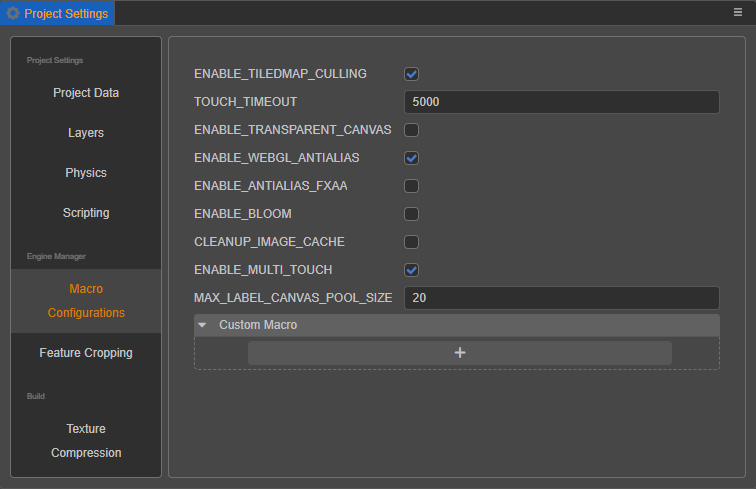
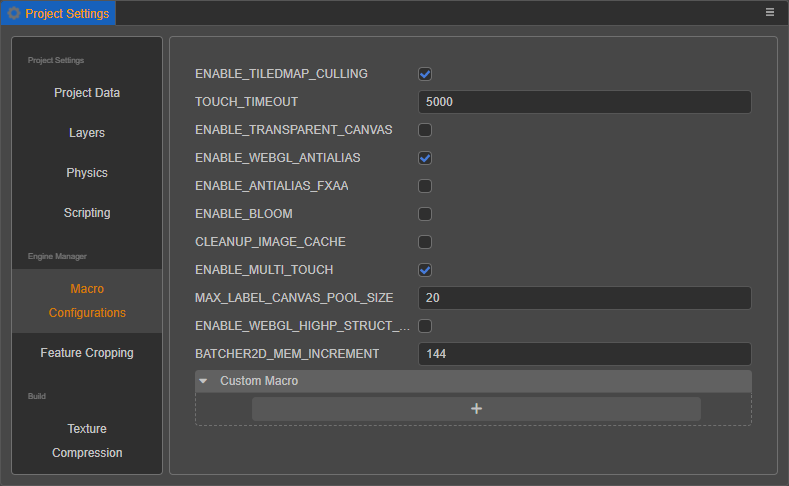
完善 2D 渲染组件合批

diff --git a/zh/ui-system/components/engine/ui-batch.md b/zh/ui-system/components/engine/ui-batch.md
@@ -2,41 +2,77 @@
 
 ## 合批条件说明
 
-2D 渲染组件合批的规则是节点的 layer、使用的材质、渲染组件的 blendState 和 DepthStencilState 相同、渲染组件的顶点信息要在同一个 buffer 中上传、贴图源以及贴图采样都相同才会进行合批。
-下面我们就分别说明一下这些条件：
-- 节点的 layer：由于 layer 会涉及到渲染与否，所以不同的 layer 之间不能进行合批
-- 材质：材质相同是合批的必然要求，由于我们使用的材质实例化的机制，所以用户在设置了材质的 uniform 之后材质会进行实例化，实例化之后的材质是无法进行合批的，如果自定义材质进行了 uniform 设置之后导致此组件无法合批，之后 uniform 值使用完毕想要该组件参与合批，可将材质资源重新赋值给组件即可重新使组件参与合批（通过 CustomMaterial 接口赋值即可）
-- BlendState 状态：对于部分 2D 渲染组件可以在面板上设置部分的 BlendState 值，这个值不同的话是无法进行合批的
-- DepthStencilState 状态：这个值控制着组件的深度检测和模板缓冲，一般来说用户不需关心这个值的设置，这个值由引擎自动控制（用于 Mask 的效果实现）
-- 顶点信息在同一个 buffer 中上传，一般情况下用户无需关心此点，顶点信息由引擎统一进行分配和管理，请参考后文的 MeshBuffer 合批说明来了解更多信息
-- 贴图源和贴图采样：一般来说，这个条件是影响合批的最主要的条件，尤其对于精灵和文本来说，贴图很容易产生差别导致无法合批。引擎提供了部分方法来实现更好的合批，可参考后文。
+2D 渲染组件合批需要满足以下几点条件：
+
+| 条件 | 说明 |
+| :-- | :--- |
+| 节点的 Layer 相同 | 由于 Layer 与节点是否渲染相关，因此不同的 Layer 之间不能进行合批。 |
+| 使用的材质相同 | **材质相同是合批的必要要求**。<br>由于 Creator 使用的是 **材质实例化** 的机制，所以当用户在设置了材质的 `uniform` 之后，材质会进行实例化，实例化之后的材质是无法进行合批的。<br>如果用户在自定义材质中设置了 `uniform`（对应组件无法进行合批），在 `uniform` 值使用完毕后想要该组件参与合批，那么可通过 `CustomMaterial` 接口将材质资源重新赋值给组件即可。 |
+| 渲染组件上所添加的材质的 `BlendState` 和 `DepthStencilState` 属性设置相同 | `DepthStencilState` 属性用于控制组件的深度检测和模板缓冲，是由引擎自动控制（用于 Mask 的效果实现）的，一般来说用户不需关心该属性的设置。 |
+| 渲染组件的顶点信息要在同一个 **buffer** 中上传（v3.4.1 新增） | 一般情况下顶点信息是由引擎统一进行分配和管理的，用户无需关心。若想要了解更多相关信息，请参考下文 **MeshBuffer 合批说明** 部分的内容。 |
+| 贴图源以及贴图采样相同 | 一般情况下该条件是影响合批最主要的因素，尤其对于 Sprite 和 Label 来说，贴图很容易产生差别导致无法合批。Creator 提供了部分方法用于更好地实现合批，详情请参考下文 **合批方法说明** 部分的内容。 |
 
 ## 合批方法说明
 
-结合以上的合批条件说明，我们可以通过一些方法来实现更好的合批方法，需要额外说明的是，2D 渲染组件的渲染数据采集是一个基于节点树的渲染方式，而一些组件是会打断合批的，目前引擎的内置组件 Mask、Graphics 和 UIMeshRenderer 由于材质不同和数据组织方式的差异会无法与其他组件合批，而 TiledMap、Spine 和 DragonBones 这三个中间件组件遵循自己的内部合批机制，所以上述组件都无法合批，且会打断其他组件合批，需要用户进行分模块管理节点树布局，以达到更好的合批效果。
+结合以上的合批条件说明，我们可以通过一些方法来实现更好的合批方法。需要额外说明的是，2D 渲染组件的渲染数据采集使用的是基于 **节点树** 的渲染方式，而有部分组件无法合批，且会打断其他组件合批，需要用户进行分模块管理节点树布局，以达到更好的合批效果。无法合批的组件包括：
 
-- 对于 Sprite 组件，我们提供了 [静态合图](../../../asset/auto-atlas.md) 和 [动态合图](../../../advanced-topics/dynamic-atlas.md) 两种合批方案，通过将图片纹理合并，即可在其他条件满足的情况下合批
-- 对于 Label 组件，我们提供了 Bitmap 的缓存方法，通过将 Label 的纹理合图，即可实现 Sprite 和 Label 组件的合批，但请注意，使用 Bitmap 缓存方式的 Label 不可频繁变动文字内容
-- 一般来说，用户通过控制材质和节点树状态配合合图方法，能够达到较好的合批效果
+- 内置组件 Mask、Graphics 和 UIMeshRenderer 组件由于材质不同和数据组织方式的差异，无法与其他组件合批；
+- TiledMap、Spine 和 DragonBones 这三个中间件组件则是遵循自己的内部合批机制。
+
+对于 Sprite 和 Label 组件来说，因为贴图很容易产生差别，导致无法合批。因此我们提供了以下方法可以更好地实现合批，用户可以根据需要参考使用：
+
+- 对于 Sprite 组件，我们提供了 [静态合图](../../../asset/auto-atlas.md) 和 [动态合图](../../../advanced-topics/dynamic-atlas.md) 两种合批方案，通过将图片纹理合并，即可在其他条件满足的情况下进行合批。
+- 对于 Label 组件，我们提供了 Bitmap 的缓存方法，通过将 Label 的纹理合图，即可实现 Sprite 和 Label 组件的合批，但需要注意的是，使用 Bitmap 缓存方式的 Label 不可频繁变动文字内容。
+
+一般来说，通过控制材质和节点树状态，然后配合合图方法，便能够达到较好的合批效果。
 
 ## MeshBuffer 合批说明
 
-由于合批要求渲染对象的顶点在同一个 MeshBuffer 中，所以会有以下几种情况造成 MeshBuffer 切换：
+由于合批要求渲染对象的顶点在同一个 MeshBuffer 中，而以下几种情况则会造成 MeshBuffer 切换。
 
-在 3.4.1 以前的版本中：
+### v3.4.1 之前
 
-- 场景中要绘制的顶点数量超过了 MeshBuffer 所能容纳的最大顶点数量（65535个顶点）
+场景中要绘制的顶点数量超过了 MeshBuffer 所能容纳的最大顶点数量（65535 个）。
 
-在 3.4.1 之后的版本中，由于我们采用了新的渲染数据提交设计，所以需要注意以下几点：
+### v3.4.1 之后
 
-- 项目设置中的 BATCHER2D_MEM_INCREMENT 的值会影响每个 MeshBuffer 可容纳的最大顶点数量。所以，这个值越大，同一个 MeshBuffer 可容纳的 2D 渲染对象也就越多，但同时，内存增加的幅度也会越大，请用户结合自身项目规模酌情设置大小（KB）
-- 项目设置中的 BATCHER2D_MEM_INCREMENT 单位为 KB，其与可容纳的顶点数量的关系为：在引擎内置标准顶点格式 **[vfmtPosUvColor]** ，即每个顶点占用 9 个 float 值的条件下，每个顶点占用的空间为 1 * 9 * 4 / 1024 （KB），其中 1 为顶点数，9 为 每顶点使用的数据数量， 4 为每 float 占用的 字节数， 1024 为 字节与 KB 转换单位, 所以，默认值为 144KB 的情况下，可容纳 144 * 1024 / (9 * 4）= 4096 个标准格式顶点。用户可根据自身场景规模来合理调整此值，但同一 meshBuffer 容纳的最大顶点数不可超过 65535 个，即 BATCHER2D_MEM_INCREMENT 的**最大值不可大于等于** 65536 * 9 * 4 / 1024 = 2304(KB)
-- 简单描述下目前 2D 渲染使用的核心思路：
+由于我们在 v3.4.1 中采用了新的渲染数据提交设计，所以需要注意以下几点：
 
-   static VB
+1. **项目设置 -> Macro Configurations** 面板中的 **BATCHER2D_MEM_INCREMENT** 的值会影响每个 MeshBuffer 可容纳的最大顶点数量，当这个值越大，同一个 MeshBuffer 可容纳的 2D 渲染对象也就越多，但与此同时，内存增加的幅度也会越大，请用户结合自身项目规模酌情设置大小。
 
-   其主要思想为：
-   - VB 固定，伴随组件的整个生命周期而存在，而决定渲染顺序的 IB 则放弃缓存，每帧进行录制。由于组件的 VB 信息多而复杂，直接保存下来可针对组件的内存段进行操作，且由于保存下来，可避免无用更新。
-   - IB 每帧填充，而相对于 VB 来说，IB 的结构简单且数量较少，且直接决定渲染顺序，所以在每帧遍历时重新填充 IB 消耗较小，且无需管理复杂的缓存机制。
-   - 由于 VB 固定，所以在整个组件的生命周期中，VB 会在最开始即分配好，直到组件销毁，所以在组件加载时，便会向预先分配好的 MeshBuffer 中申请好想要使用的 VB，在销毁时归还。
-   - 当 MeshBuffer 已经无法分配出组件需要的 VB 时，系统便会新创建一个大小为 BATCHER2D_MEM_INCREMENT 的 MeshBuffer 来继续分配 VB。
+2. **BATCHER2D_MEM_INCREMENT** 的单位为 **KB**，与可容纳的顶点数量之间的转换关系如下：
+
+    引擎内置标准的顶点格式为 [vfmtPosUvColor](https://github.com/cocos-creator/engine/blob/v3.4.1/cocos/2d/renderer/vertex-format.ts#L43)，在引擎中的定义为：
+
+    ```ts
+    export const vfmtPosUvColor = [
+    // RGB32F 表示 3 个 32 位的 float
+    new Attribute(AttributeName.ATTR_POSITION, Format.RGB32F),
+    // RG32F 表示 2 个 32 位的 float
+    new Attribute(AttributeName.ATTR_TEX_COORD, Format.RG32F),
+    // RGBA32F 表示 4 个 32 位的 float
+    new Attribute(AttributeName.ATTR_COLOR, Format.RGBA32F),
+    ];
+    ```
+
+    由此我们可以得到每个顶点占用 9 个 `float` 值，每个顶点占用的空间为：`1 * 9 * 4 / 1024（KB）`，其中：
+
+      - **1** 表示顶点数；
+
+      - **9** 表示 `vfmtPosUvColor` 条件下每个顶点占用的 `float` 值；
+
+      - **4** 表示每个 float 占用的字节数；
+
+      - **1024** 表示字节与 KB 转换单位。
+
+    因此 **BATCHER2D_MEM_INCREMENT** 的默认值 144KB，表示可容纳 `144 * 1024 / (9 * 4）= 4096` 个标准格式的顶点。需要注意的是：同一 MeshBuffer 容纳的最大顶点数不可超过 **65535** 个，即 **BATCHER2D_MEM_INCREMENT** 的最大值不可大于等于 `65536 * 9 * 4 / 1024 = 2304（KB）`。
+
+3. 目前 2D 渲染使用的核心为 **static VB**，其主要内容包括：
+
+    - **VB 固定** 伴随着组件的整个生命周期而存在，而决定渲染顺序的 IB 则放弃缓存，每帧进行录制。由于组件的 VB 信息多而复杂，直接保存下来可针对组件的内存段进行操作，而且保存下来可以避免无用的更新。
+
+    - IB 每帧填充。相对于 VB 来说，IB 的结构简单、数量较少，并且会直接决定渲染顺序，所以在每帧遍历时重新填充 IB 消耗较小，且无需管理复杂的缓存机制。
+
+    - 由于 VB 固定，所以在整个组件的生命周期中，VB 会在最开始就分配好，直到组件销毁，所以在组件加载时，便会向预先分配好的 MeshBuffer 中申请好想要使用的 VB，然后在销毁时归还。
+
+    - 当 MeshBuffer 已经无法分配出组件需要的 VB 时，系统便会新创建一个大小为 **BATCHER2D_MEM_INCREMENT** 的 MeshBuffer 来继续分配 VB。

diff --git a/en/editor/project/index.md b/en/editor/project/index.md
@@ -86,11 +86,13 @@ Used to configure various parameters of physics, please refer to the [Physics Co
 
 - **MAX_LABEL_CANVAS_POOL_SIZE**: set the maximum number of Canvas object pools used by the Label, and adjust it according to the number of Labels in the same scene of the project.
 
-- **ENABLE_WEBGL_HIGHP_STRUCT_VALUES**: on the Android platform with WebGL backend, the internal variables of the structures defined in the fragment shader use **mediump** precision, which may lead to incorrect results for some data that requires high precision (such as position information). To avoid this problem, check this option (new in v3.4.1) and enable WebGL to calculate variables with **highp** precision.
+- **ENABLE_WEBGL_HIGHP_STRUCT_VALUES** (new in v3.4.1): on the Android platform with WebGL backend, the internal variables of the structures defined in the fragment shader use **mediump** precision, which may lead to incorrect results for some data that requires high precision (such as position information). To avoid this problem, check this option and enable WebGL to calculate variables with **highp** precision.
 
     - If this option is enabled, use the `HIGHP_VALUE_STRUCT_DEFINE` macro in the fragment shader code to define structural variables, and use `HIGHP_VALUE_TO_STRUCT_DEFINED` and `HIGHP_VALUE_FROM_STRUCT_DEFINED` to assign values between structural and non-structural variables.
 
     - For specific information and code on the above macro calls, please refer to [packing.chunk](https://github.com/cocos-creator/engine/blob/v3.4.1/editor/assets/chunks/packing.chunk#L40) for details.
+
+- **BATCHER2D_MEM_INCREMENT** (new in v3.4.1): this option affects the maximum number of vertices in each MeshBuffer, the default value is 144KB, please refer to the [MeshBuffer Batch Description](../../ui-system/components/engine/ui-batch.md) documentation for the conversion relationship between the number and the value.
 
 - **Custom Macro**: used to customize macro configurations, providing a macro tagging feature for current project scripts for easy visual configuration. Click the **+** button below to add a new macro configuration, hover over the added macro configuration and the **Delete** and **Modify** buttons will be displayed on the left side for deleting/renaming the current macro configuration respectively.
 

diff --git a/zh/editor/project/index.md b/zh/editor/project/index.md
@@ -87,11 +87,13 @@
 
 - **MAX_LABEL_CANVAS_POOL_SIZE**：设置 Label 使用的 Canvas 对象池的最大数量，请根据项目同场景的 Label 数量进行调整。
 
-- **ENABLE_WEBGL_HIGHP_STRUCT_VALUES**：在带有 WebGL 后端的 Android 平台上，片元着色器中定义的结构体内部变量使用的是 mediump 精度，可能会导致一些需要高精度的数据（如位置信息）计算出现错误结果。可以通过勾选该项（v3.4.1 新增）开启 WebGL 使用 highp 精度计算变量来避免该问题。
+- **ENABLE_WEBGL_HIGHP_STRUCT_VALUES**（v3.4.1 新增）：在带有 WebGL 后端的 Android 平台上，片元着色器中定义的结构体内部变量使用的是 mediump 精度，可能会导致一些需要高精度的数据（如位置信息）计算出现错误结果。可以通过勾选该项开启 WebGL 使用 highp 精度计算变量来避免该问题。
 
     - 若开启该项，在片元着色器代码中需要使用 `HIGHP_VALUE_STRUCT_DEFINE` 宏来定义结构体变量，使用 `HIGHP_VALUE_TO_STRUCT_DEFINED` 和 `HIGHP_VALUE_FROM_STRUCT_DEFINED` 在结构体变量和非结构体变量之间赋值。
 
     - 关于上述宏调用的具体信息与代码，详情请参考 **packing.chunk**（[GitHub](https://github.com/cocos-creator/engine/blob/v3.4.1/editor/assets/chunks/packing.chunk#L40) | [Gitee](https://gitee.com/mirrors_cocos-creator/engine/blob/v3.4.1/editor/assets/chunks/packing.chunk#L40)）。
+
+- **BATCHER2D_MEM_INCREMENT**（v3.4.1 新增）：该项会影响每个 MeshBuffer 可容纳的最大顶点数量，默认值为 144KB，数量与值之间的转换关系请参考 [MeshBuffer 合批说明](../../ui-system/components/engine/ui-batch.md#meshbuffer-%E5%90%88%E6%89%B9%E8%AF%B4%E6%98%8E)。
 
 - **Custom Macro**：用于自定义宏配置，为当前项目脚本提供一个宏标记的功能，便于可视化配置。点击下方的 **+** 按钮即可添加新的宏配置，将鼠标悬浮在已添加的宏配置上，左侧会显示 **删除** 和 **修改** 按钮，分别用于删除/重命名当前宏配置。
 
